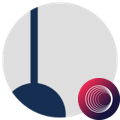
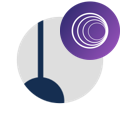
Add UNW token

diff --git a/src/config/token_data.py b/src/config/token_data.py
@@ -2354,6 +2354,23 @@ TOKENS = {
         }
       },
       "sourceDecimals": 18
+    },
+    "UNW": {
+      "symbol": "UNW",
+      "name": "Uniwhale Token",
+      "sourceAddress": "0x5b65cd9feb54F1Df3D0C60576003344079f8Dc06",
+      "coingeckoId": "uniwhale",
+      "logo": "https://assets.coingecko.com/coins/images/29531/small/token-256x256.png?1680260871",
+      "markets": {
+        "bsc": ["pancakeswap"],
+      },
+      "destinations": {
+        "arbitrum": {
+          "address": "0xF73Ce9D8F7BDDCC38Cb3e662Cb93622B2145a47f",
+          "decimals": 18
+        }
+      },
+      "sourceDecimals": 18
     }
   },
   #####################

diff --git a/content/source_bsc.md b/content/source_bsc.md
@@ -10,6 +10,7 @@ _See [by_source.csv](by_source.csv) ([raw](https://raw.githubusercontent.com/cer
 | ![CAKE](https://raw.githubusercontent.com/certusone/wormhole-token-list/main/assets/CAKE_wh.png)     | CAKE     | [PancakeSwap Token (Portal)](http://coingecko.com/en/coins/pancakeswap)    | [0x0e09fabb73bd3ade0a17ecc321fd13a19e81ce82](https://bscscan.com/address/0x0e09fabb73bd3ade0a17ecc321fd13a19e81ce82) | [J8LKx7pr9Zxh9nMhhT7X3EBmj5RzuhFrHKyJAe2F2i9S](https://solscan.io/address/J8LKx7pr9Zxh9nMhhT7X3EBmj5RzuhFrHKyJAe2F2i9S) |             8 |                                                                                                     | [0x7c8161545717a334f3196e765d9713f8042EF338](https://etherscan.io/address/0x7c8161545717a334f3196e765d9713f8042EF338) |            18 |              | [terra1xvqlpjl2dxyel9qrp6qvtrg04xe3jh9cyxc6av](https://finder.terra.money/columbus-5/address/terra1xvqlpjl2dxyel9qrp6qvtrg04xe3jh9cyxc6av) |               8 |                |                                                                                                                          |             nan |                | [0x98a4d09036Cc5337810096b1D004109686E56Afc](https://snowtrace.io/address/0x98a4d09036Cc5337810096b1D004109686E56Afc) |             18 |               |                                                                                                                                  |             nan |                |                   |                    |                   |                 |                  |                 |              |               |              |                 |                  |                 |                |                 |                |                 |                  |                 |               |                |               |               |                |               |                                                                                                                      |                nan |                                                                                    |                 |                  |                 |                    |                     |                    |                |                 |                |                                                                                                                       |                nan |                                                |                   |                    |                   |               |                |               | CAKE             |
 | ![MGP](https://raw.githubusercontent.com/certusone/wormhole-token-list/main/assets/MGP_wh.png)       | MGP      | [Magpie](http://coingecko.com/en/coins/magpie)                             | [0xD06716E1Ff2E492Cc5034c2E81805562dd3b45fa](https://bscscan.com/address/0xD06716E1Ff2E492Cc5034c2E81805562dd3b45fa) |                                                                                                                         |           nan |                                                                                                     |                                                                                                                       |           nan |              |                                                                                                                                            |             nan |                |                                                                                                                          |             nan |                |                                                                                                                       |            nan |               |                                                                                                                                  |             nan |                |                   |                    |                   |                 |                  |                 |              |               |              |                 |                  |                 |                |                 |                |                 |                  |                 |               |                |               |               |                |               |                                                                                                                      |                nan |                                                                                    |                 |                  |                 |                    |                     |                    |                |                 |                | [0xa61F74247455A40b01b0559ff6274441FAfa22A3](https://arbiscan.io//address/0xa61F74247455A40b01b0559ff6274441FAfa22A3) |                 18 | [trader joe](https://traderjoexyz.com/#/trade) |                   |                    |                   |               |                |               | MGP              |
 | ![QUO](https://raw.githubusercontent.com/certusone/wormhole-token-list/main/assets/QUO_wh.png)       | QUO      | [Quoll Finance](http://coingecko.com/en/coins/quoll-finance)               | [0x08b450e4a48C04CDF6DB2bD4cf24057f7B9563fF](https://bscscan.com/address/0x08b450e4a48C04CDF6DB2bD4cf24057f7B9563fF) |                                                                                                                         |           nan |                                                                                                     |                                                                                                                       |           nan |              |                                                                                                                                            |             nan |                |                                                                                                                          |             nan |                |                                                                                                                       |            nan |               |                                                                                                                                  |             nan |                |                   |                    |                   |                 |                  |                 |              |               |              |                 |                  |                 |                |                 |                |                 |                  |                 |               |                |               |               |                |               |                                                                                                                      |                nan |                                                                                    |                 |                  |                 |                    |                     |                    |                |                 |                | [0xf00D8790A76ee5A5Dbc10eaCac39151aa2af0331](https://arbiscan.io//address/0xf00D8790A76ee5A5Dbc10eaCac39151aa2af0331) |                 18 | [uniswap](https://app.uniswap.org/)            |                   |                    |                   |               |                |               | QUO              |
+| ![UNW](https://raw.githubusercontent.com/certusone/wormhole-token-list/main/assets/UNW_wh.png)       | UNW      | [Uniwhale Token](http://coingecko.com/en/coins/uniwhale)                   | [0x5b65cd9feb54F1Df3D0C60576003344079f8Dc06](https://bscscan.com/address/0x5b65cd9feb54F1Df3D0C60576003344079f8Dc06) |                                                                                                                         |           nan |                                                                                                     |                                                                                                                       |           nan |              |                                                                                                                                            |             nan |                |                                                                                                                          |             nan |                |                                                                                                                       |            nan |               |                                                                                                                                  |             nan |                |                   |                    |                   |                 |                  |                 |              |               |              |                 |                  |                 |                |                 |                |                 |                  |                 |               |                |               |               |                |               |                                                                                                                      |                nan |                                                                                    |                 |                  |                 |                    |                     |                    |                |                 |                | [0xF73Ce9D8F7BDDCC38Cb3e662Cb93622B2145a47f](https://arbiscan.io//address/0xF73Ce9D8F7BDDCC38Cb3e662Cb93622B2145a47f) |                 18 |                                                |                   |                    |                   |               |                |               | UNW              |
 | ![USDCbs](https://raw.githubusercontent.com/certusone/wormhole-token-list/main/assets/USDCbs_wh.png) | USDCbs   | [USD Coin (Portal from BSC)](http://coingecko.com/en/coins/usd-coin)       | [0x8ac76a51cc950d9822d68b83fe1ad97b32cd580d](https://bscscan.com/address/0x8ac76a51cc950d9822d68b83fe1ad97b32cd580d) | [FCqfQSujuPxy6V42UvafBhsysWtEq1vhjfMN1PUbgaxA](https://solscan.io/address/FCqfQSujuPxy6V42UvafBhsysWtEq1vhjfMN1PUbgaxA) |             8 | [saber](https://www.saber.so/), [mercurial](https://mercurial.finance/), [jupiter](https://jup.ag/) | [0x7cd167B101D2808Cfd2C45d17b2E7EA9F46b74B6](https://etherscan.io/address/0x7cd167B101D2808Cfd2C45d17b2E7EA9F46b74B6) |            18 |              | [terra1yljlrxvkar0c6ujpvf8g57m5rpcwl7r032zyvu](https://finder.terra.money/columbus-5/address/terra1yljlrxvkar0c6ujpvf8g57m5rpcwl7r032zyvu) |               8 |                |                                                                                                                          |             nan |                | [0x6145E8a910aE937913426BF32De2b26039728ACF](https://snowtrace.io/address/0x6145E8a910aE937913426BF32De2b26039728ACF) |             18 |               | [0x4cA2A3De42eabC8fd8b0AC46127E64DB08b9150e](https://explorer.oasis.updev.si/address/0x4cA2A3De42eabC8fd8b0AC46127E64DB08b9150e) |              18 |                |                   |                    |                   |                 |                  |                 |              |               |              |                 |                  |                 |                |                 |                |                 |                  |                 |               |                |               |               |                |               |                                                                                                                      |                nan |                                                                                    |                 |                  |                 |                    |                     |                    |                |                 |                |                                                                                                                       |                nan |                                                |                   |                    |                   |               |                |               | USDCbs           |
 | ![USDTbs](https://raw.githubusercontent.com/certusone/wormhole-token-list/main/assets/USDTbs_wh.png) | USDTbs   | [Tether USD (Portal from BSC)](http://coingecko.com/en/coins/tether)       | [0x55d398326f99059fF775485246999027B3197955](https://bscscan.com/address/0x55d398326f99059fF775485246999027B3197955) | [8qJSyQprMC57TWKaYEmetUR3UUiTP2M3hXdcvFhkZdmv](https://solscan.io/address/8qJSyQprMC57TWKaYEmetUR3UUiTP2M3hXdcvFhkZdmv) |             8 | [saber](https://www.saber.so/), [mercurial](https://mercurial.finance/), [jupiter](https://jup.ag/) | [0xDe60aDfDdAAbaAAC3dAFa57B26AcC91Cb63728c4](https://etherscan.io/address/0xDe60aDfDdAAbaAAC3dAFa57B26AcC91Cb63728c4) |            18 |              | [terra1vlqeghv5mt5udh96kt5zxlh2wkh8q4kewkr0dd](https://finder.terra.money/columbus-5/address/terra1vlqeghv5mt5udh96kt5zxlh2wkh8q4kewkr0dd) |               8 |                |                                                                                                                          |             nan |                | [0xA67BCC0D06d7d13A13A2AE30bF30f1B434f5a28B](https://snowtrace.io/address/0xA67BCC0D06d7d13A13A2AE30bF30f1B434f5a28B) |             18 |               | [0x366EF31C8dc715cbeff5fA54Ad106dC9c25C6153](https://explorer.oasis.updev.si/address/0x366EF31C8dc715cbeff5fA54Ad106dC9c25C6153) |              18 |                |                   |                    |                   |                 |                  |                 |              |               |              |                 |                  |                 |                |                 |                |                 |                  |                 |               |                |               |               |                |               |                                                                                                                      |                nan |                                                                                    |                 |                  |                 |                    |                     |                    |                |                 |                |                                                                                                                       |                nan |                                                |                   |                    |                   |               |                |               | USDTbs           |
 | ![WMX](https://raw.githubusercontent.com/certusone/wormhole-token-list/main/assets/WMX_wh.png)       | WMX      | [Wombex Finance](http://coingecko.com/en/coins/wombex)                     | [0xa75d9ca2a0a1D547409D82e1B06618EC284A2CeD](https://bscscan.com/address/0xa75d9ca2a0a1D547409D82e1B06618EC284A2CeD) |                                                                                                                         |           nan |                                                                                                     |                                                                                                                       |           nan |              |                                                                                                                                            |             nan |                |                                                                                                                          |             nan |                |                                                                                                                       |            nan |               |                                                                                                                                  |             nan |                |                   |                    |                   |                 |                  |                 |              |               |              |                 |                  |                 |                |                 |                |                 |                  |                 |               |                |               |               |                |               |                                                                                                                      |                nan |                                                                                    |                 |                  |                 |                    |                     |                    |                |                 |                | [0x5190F06EaceFA2C552dc6BD5e763b81C73293293](https://arbiscan.io//address/0x5190F06EaceFA2C552dc6BD5e763b81C73293293) |                 18 | [camelot](https://app.camelot.exchange/)       |                   |                    |                   |               |                |               | WMX              |

diff --git a/content/dest_solana.md b/content/dest_solana.md
@@ -54,7 +54,7 @@ _See [by_dest.csv](by_dest.csv) ([raw](https://raw.githubusercontent.com/certuso
 | ![ILV](https://raw.githubusercontent.com/certusone/wormhole-token-list/main/assets/ILV_wh.png)         | ILV      | [Illuvium (Portal)](http://coingecko.com/en/coins/illuvium)                                       | [8UJbtpsEubDVkY53rk7d61hNYKkvouicczB2XmuwiG4g](https://solscan.io/token/8UJbtpsEubDVkY53rk7d61hNYKkvouicczB2XmuwiG4g) |          8 | ethereum  | [0x767fe9edc9e0df98e07454847909b5e959d7ca0e](https://etherscan.io/address/0x767fe9edc9e0df98e07454847909b5e959d7ca0e)                      |               18 |                                                                                                                                                                                                                                                                           |                                              |                                              | ILV              |
 | ![JOE](https://raw.githubusercontent.com/certusone/wormhole-token-list/main/assets/JOE_wh.png)         | JOE      | [JoeToken (Portal)](http://coingecko.com/en/coins/joe)                                            | [CriXdFS9iRAYbGEQiTcUqbWwG9RBmYt5B6LwTnoJ61Sm](https://solscan.io/token/CriXdFS9iRAYbGEQiTcUqbWwG9RBmYt5B6LwTnoJ61Sm) |          8 | avalanche | [0x6e84a6216ea6dacc71ee8e6b0a5b7322eebc0fdd](https://snowtrace.io/address/0x6e84a6216ea6dacc71ee8e6b0a5b7322eebc0fdd)                      |               18 |                                                                                                                                                                                                                                                                           |                                              |                                              | JOE              |
 | ![KEEP](https://raw.githubusercontent.com/certusone/wormhole-token-list/main/assets/KEEP_wh.png)       | KEEP     | [Keep Network (Portal)](http://coingecko.com/en/coins/keep-network)                               | [64L6o4G2H7Ln1vN7AHZsUMW4pbFciHyuwn4wUdSbcFxh](https://solscan.io/token/64L6o4G2H7Ln1vN7AHZsUMW4pbFciHyuwn4wUdSbcFxh) |          8 | ethereum  | [0x85eee30c52b0b379b046fb0f85f4f3dc3009afec](https://etherscan.io/address/0x85eee30c52b0b379b046fb0f85f4f3dc3009afec)                      |               18 |                                                                                                                                                                                                                                                                           |                                              |                                              | KEEP             |
-|                                                                                                        | KIN      | [Kin1 Migration (Portal)](http://coingecko.com/en/coins/kin)                                      | [YdYQS1RK1ZTwCMH69pmpWk3W7eLhf99Nfu9b8Rqd9SD](https://solscan.io/token/YdYQS1RK1ZTwCMH69pmpWk3W7eLhf99Nfu9b8Rqd9SD)   |          8 | ethereum  | [0x818fc6c2ec5986bc6e2cbf00939d90556ab12ce5](https://etherscan.io/address/0x818fc6c2ec5986bc6e2cbf00939d90556ab12ce5)                      |               18 |                                                                                                                                                                                                                                                                           |                                              |                                              | KIN              |
+| ![KIN](https://raw.githubusercontent.com/certusone/wormhole-token-list/main/assets/KIN_wh.png)         | KIN      | [Kin1 Migration (Portal)](http://coingecko.com/en/coins/kin)                                      | [YdYQS1RK1ZTwCMH69pmpWk3W7eLhf99Nfu9b8Rqd9SD](https://solscan.io/token/YdYQS1RK1ZTwCMH69pmpWk3W7eLhf99Nfu9b8Rqd9SD)   |          8 | ethereum  | [0x818fc6c2ec5986bc6e2cbf00939d90556ab12ce5](https://etherscan.io/address/0x818fc6c2ec5986bc6e2cbf00939d90556ab12ce5)                      |               18 |                                                                                                                                                                                                                                                                           |                                              |                                              | KIN              |
 | ![KP3R](https://raw.githubusercontent.com/certusone/wormhole-token-list/main/assets/KP3R_wh.png)       | KP3R     | [Keep3rV1 (Portal)](http://coingecko.com/en/coins/keep3rv1)                                       | [3a2VW9t5N6p4baMW3M6yLH1UJ9imMt7VsyUk6ouXPVLq](https://solscan.io/token/3a2VW9t5N6p4baMW3M6yLH1UJ9imMt7VsyUk6ouXPVLq) |          8 | ethereum  | [0x1ceb5cb57c4d4e2b2433641b95dd330a33185a44](https://etherscan.io/address/0x1ceb5cb57c4d4e2b2433641b95dd330a33185a44)                      |               18 |                                                                                                                                                                                                                                                                           |                                              |                                              | KP3R             |
 | ![LDO](https://raw.githubusercontent.com/certusone/wormhole-token-list/main/assets/LDO_wh.png)         | LDO      | [Lido DAO (Portal)](http://coingecko.com/en/coins/lido-dao)                                       | [HZRCwxP2Vq9PCpPXooayhJ2bxTpo5xfpQrwB1svh332p](https://solscan.io/token/HZRCwxP2Vq9PCpPXooayhJ2bxTpo5xfpQrwB1svh332p) |          8 | ethereum  | [0x5a98fcbea516cf06857215779fd812ca3bef1b32](https://etherscan.io/address/0x5a98fcbea516cf06857215779fd812ca3bef1b32)                      |               18 | [jupiter](https://jup.ag/)                                                                                                                                                                                                                                                |                                              |                                              | LDO              |
 | ![LINK](https://raw.githubusercontent.com/certusone/wormhole-token-list/main/assets/LINK_wh.png)       | LINK     | [Chainlink (Portal)](http://coingecko.com/en/coins/chainlink)                                     | [2wpTofQ8SkACrkZWrZDjXPitYa8AwWgX8AfxdeBRRVLX](https://solscan.io/token/2wpTofQ8SkACrkZWrZDjXPitYa8AwWgX8AfxdeBRRVLX) |          8 | ethereum  | [0x514910771af9ca656af840dff83e8264ecf986ca](https://etherscan.io/address/0x514910771af9ca656af840dff83e8264ecf986ca)                      |               18 |                                                                                                                                                                                                                                                                           | FJMjxMCiDKn16TLhXUdEbVDH5wC6k9EHYJTcrH6NcbDE | Gr2KmhK7Upr4uW56B1QQrJuhhgmot6zAHJeZALTMStiX | LINK             |

diff --git a/content/dest_arbitrum.md b/content/dest_arbitrum.md
@@ -10,5 +10,6 @@ _See [by_dest.csv](by_dest.csv) ([raw](https://raw.githubusercontent.com/certuso
 | ![MGP](https://raw.githubusercontent.com/certusone/wormhole-token-list/main/assets/MGP_wh.png)   | MGP      | [Magpie](http://coingecko.com/en/coins/magpie)                   | [0xa61F74247455A40b01b0559ff6274441FAfa22A3](https://arbiscan.io//token/0xa61F74247455A40b01b0559ff6274441FAfa22A3) |         18 | bsc      | [0xD06716E1Ff2E492Cc5034c2E81805562dd3b45fa](https://bscscan.com/address/0xD06716E1Ff2E492Cc5034c2E81805562dd3b45fa)              |               18 | [trader joe](https://traderjoexyz.com/#/trade)                     | MGP              |
 | ![QUO](https://raw.githubusercontent.com/certusone/wormhole-token-list/main/assets/QUO_wh.png)   | QUO      | [Quoll Finance](http://coingecko.com/en/coins/quoll-finance)     | [0xf00D8790A76ee5A5Dbc10eaCac39151aa2af0331](https://arbiscan.io//token/0xf00D8790A76ee5A5Dbc10eaCac39151aa2af0331) |         18 | bsc      | [0x08b450e4a48C04CDF6DB2bD4cf24057f7B9563fF](https://bscscan.com/address/0x08b450e4a48C04CDF6DB2bD4cf24057f7B9563fF)              |               18 | [uniswap](https://app.uniswap.org/)                                | QUO              |
 | ![TBTC](https://raw.githubusercontent.com/certusone/wormhole-token-list/main/assets/TBTC_wh.png) | TBTC     | [Threshold Bitcoin](http://coingecko.com/en/coins/tbtc)          | [0x6c84a8f1c29108F47a79964b5Fe888D4f4D0dE40](https://arbiscan.io//token/0x6c84a8f1c29108F47a79964b5Fe888D4f4D0dE40) |         18 | optimism | [0x6c84a8f1c29108F47a79964b5Fe888D4f4D0dE40](https://optimistic.etherscan.io//address/0x6c84a8f1c29108F47a79964b5Fe888D4f4D0dE40) |               18 | [threshold network](https://dashboard.threshold.network/TBTC/mint) | TBTC             |
+| ![UNW](https://raw.githubusercontent.com/certusone/wormhole-token-list/main/assets/UNW_wh.png)   | UNW      | [Uniwhale Token](http://coingecko.com/en/coins/uniwhale)         | [0xF73Ce9D8F7BDDCC38Cb3e662Cb93622B2145a47f](https://arbiscan.io//token/0xF73Ce9D8F7BDDCC38Cb3e662Cb93622B2145a47f) |         18 | bsc      | [0x5b65cd9feb54F1Df3D0C60576003344079f8Dc06](https://bscscan.com/address/0x5b65cd9feb54F1Df3D0C60576003344079f8Dc06)              |               18 |                                                                    | UNW              |
 | ![WMX](https://raw.githubusercontent.com/certusone/wormhole-token-list/main/assets/WMX_wh.png)   | WMX      | [Wombex Finance](http://coingecko.com/en/coins/wombex)           | [0x5190F06EaceFA2C552dc6BD5e763b81C73293293](https://arbiscan.io//token/0x5190F06EaceFA2C552dc6BD5e763b81C73293293) |         18 | bsc      | [0xa75d9ca2a0a1D547409D82e1B06618EC284A2CeD](https://bscscan.com/address/0xa75d9ca2a0a1D547409D82e1B06618EC284A2CeD)              |               18 | [camelot](https://app.camelot.exchange/)                           | WMX              |
 | ![WOM](https://raw.githubusercontent.com/certusone/wormhole-token-list/main/assets/WOM_wh.png)   | WOM      | [Wombat Exchange](http://coingecko.com/en/coins/wombat-exchange) | [0x7b5eb3940021ec0e8e463d5dbb4b7b09a89ddf96](https://arbiscan.io//token/0x7b5eb3940021ec0e8e463d5dbb4b7b09a89ddf96) |         18 | bsc      | [0xad6742a35fb341a9cc6ad674738dd8da98b94fb1](https://bscscan.com/address/0xad6742a35fb341a9cc6ad674738dd8da98b94fb1)              |               18 | [uniswap](https://app.uniswap.org/)                                | WOM              |

diff --git a/assets/preview.md b/assets/preview.md
@@ -967,6 +967,14 @@ https://raw.githubusercontent.com/certusone/wormhole-token-list/main/assets/MGP_
 https://raw.githubusercontent.com/certusone/wormhole-token-list/main/assets/WMX_wh.png
 ```
 
+### UNW
+![UNW](UNW_wh.png)
+![UNW](UNW_wh_small.png)
+
+```
+https://raw.githubusercontent.com/certusone/wormhole-token-list/main/assets/UNW_wh.png
+```
+
 
 ## source chain: Polygon
 ### DAIpo
